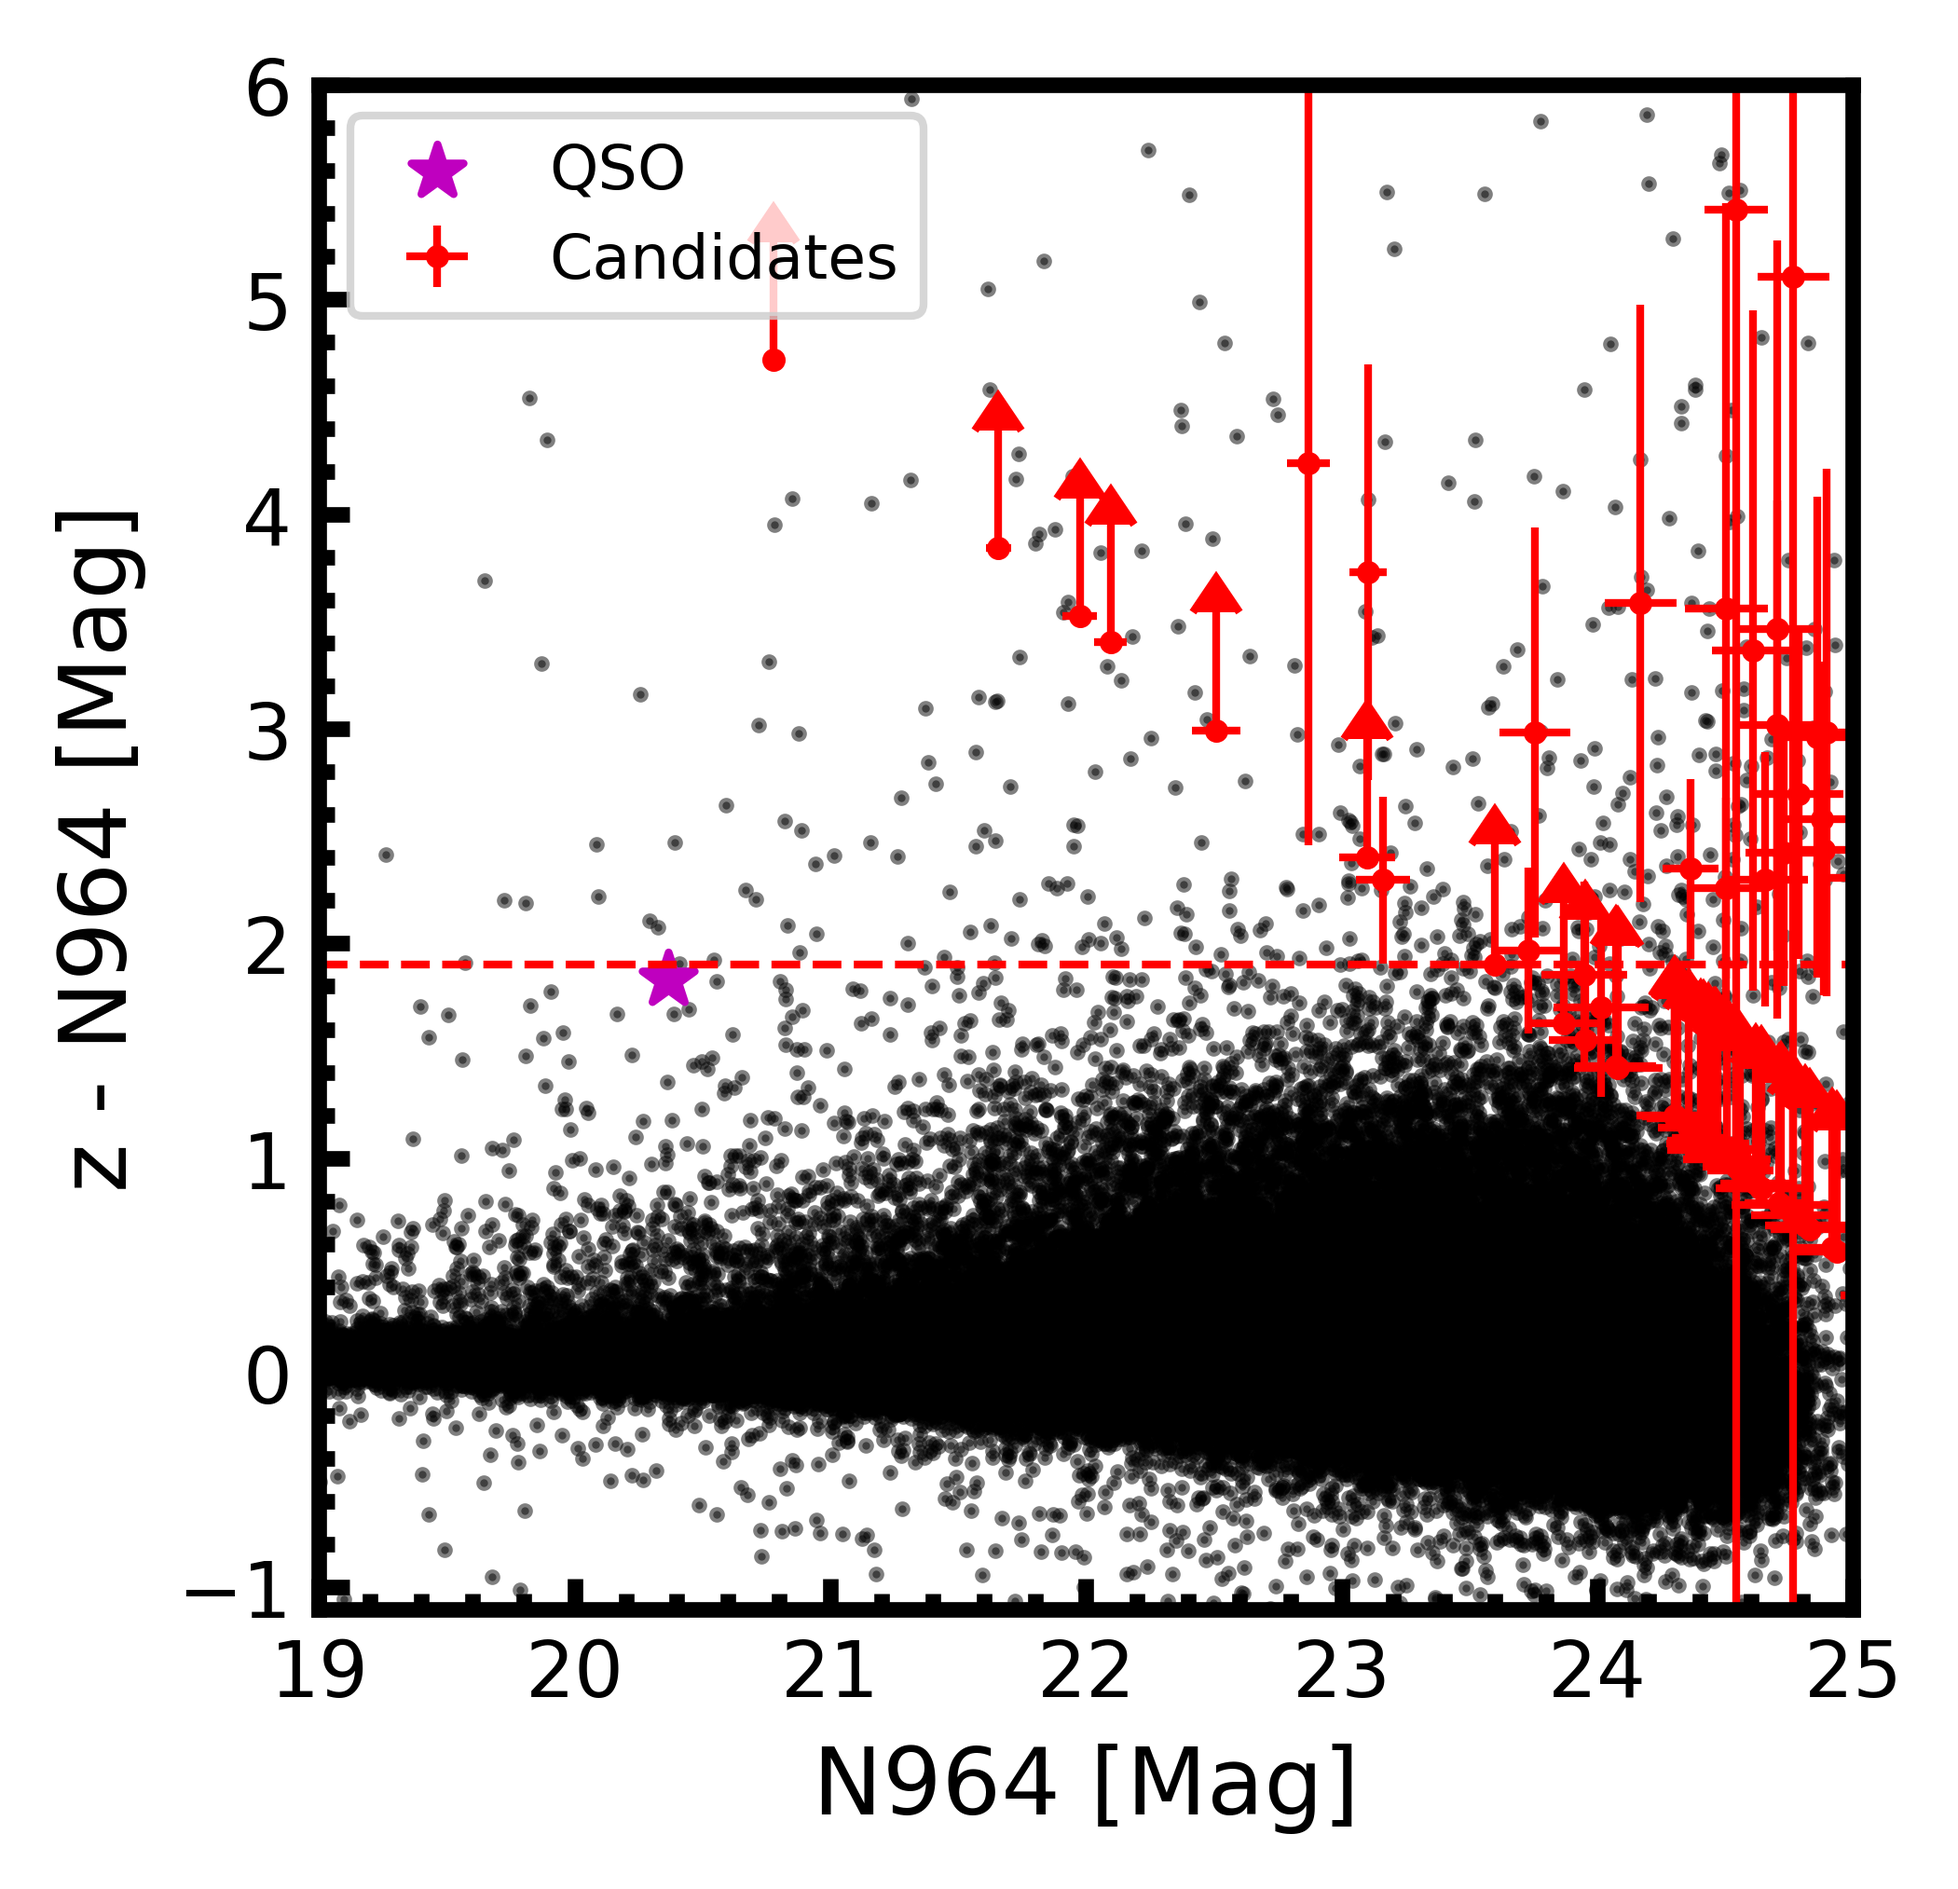
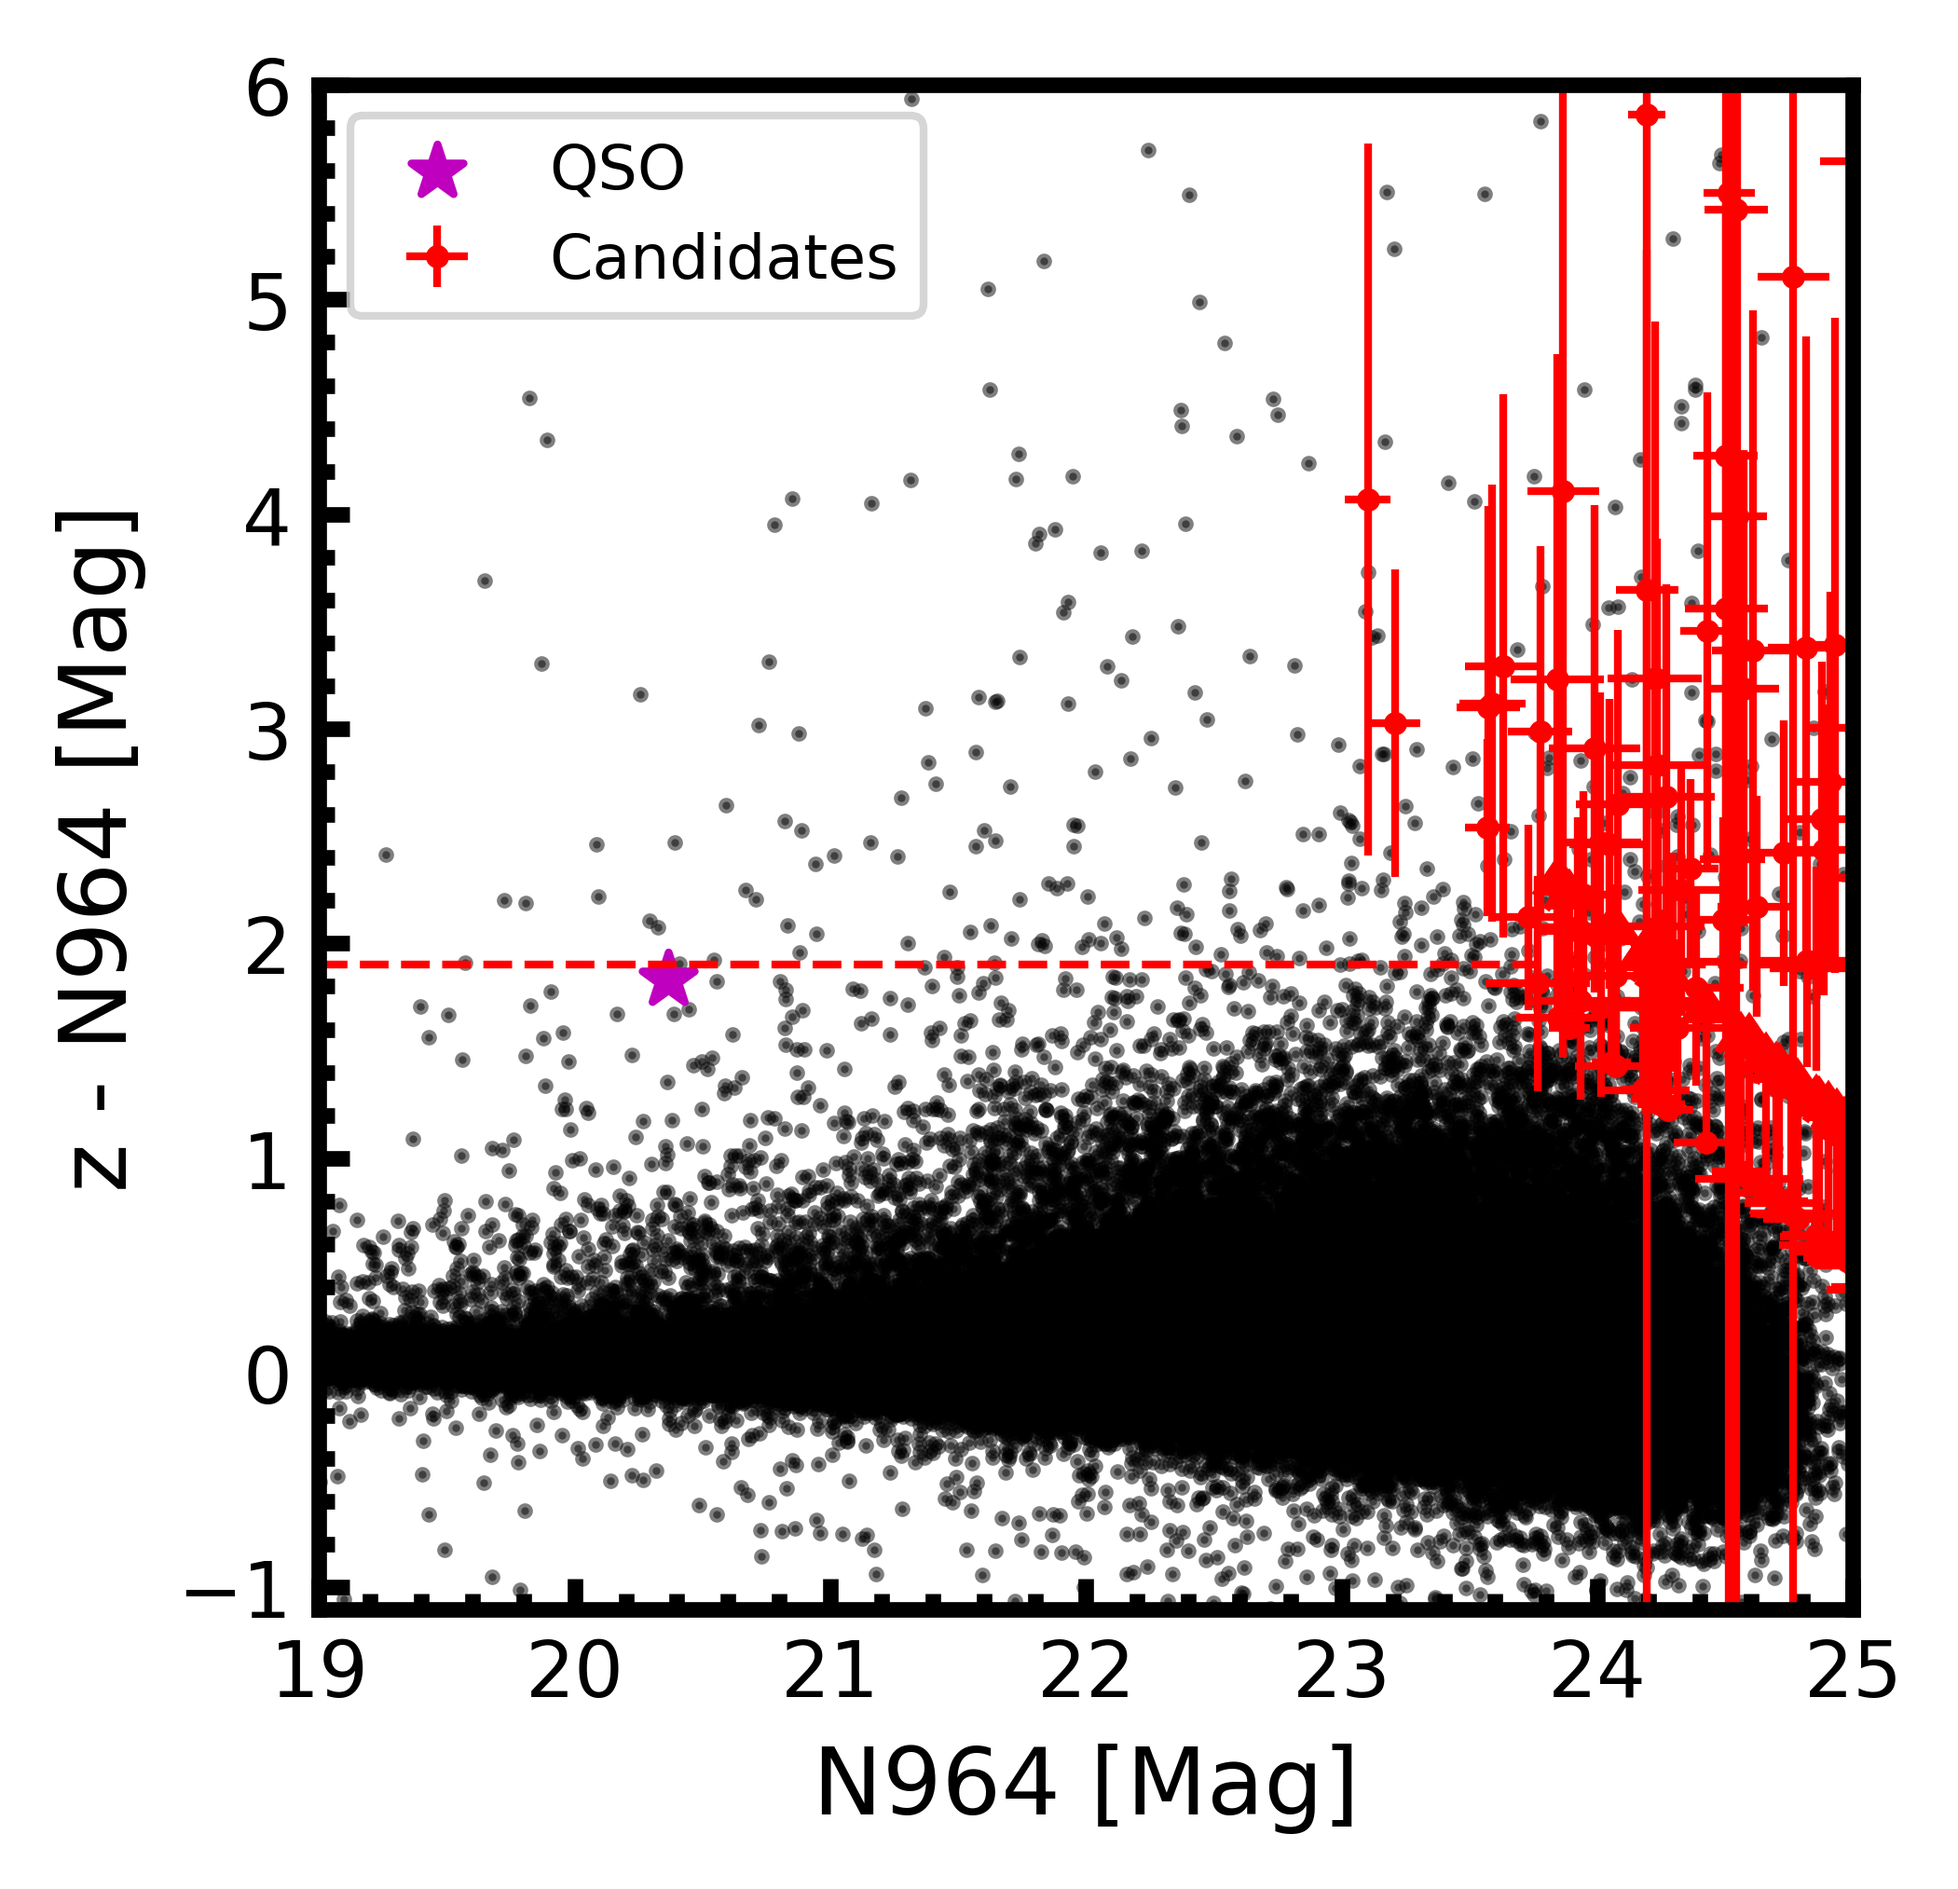
fixed bug with identify galaxies.

Changed region(s): [[0.495, 0.0311, 0.9591, 0.8392], [0.3713, 0.0932, 0.4022, 0.2176]]

diff --git a/identify_candidates.py b/identify_candidates.py
@@ -124,7 +124,7 @@ if __name__ == '__main__':
 
     i_bands, z_bands, n_bands = [], [], []
     for i, _ in enumerate(ra):
-        i_filter, z_filter, n964_filter = ps.cut_out_stamps(ra[i], dec[i], pad=40)
+        i_filter, z_filter, n964_filter = ps.cut_out_stamps(ra[i], dec[i], pad=60)
         i_bands.append(i_filter)
         z_bands.append(z_filter)
         n_bands.append(n964_filter)
@@ -136,6 +136,6 @@ if __name__ == '__main__':
 
     write_region_file(ra[candidates], dec[candidates], 'candidates.reg')
     with open('candidates.txt', 'w', encoding='utf8') as file:
-        file.write('# RA DEC')
+        file.write('# RA DEC \n')
         for i, _ in enumerate(candidates):
             file.write(f'{ra[candidates][i]} {dec[candidates][i]} \n')
